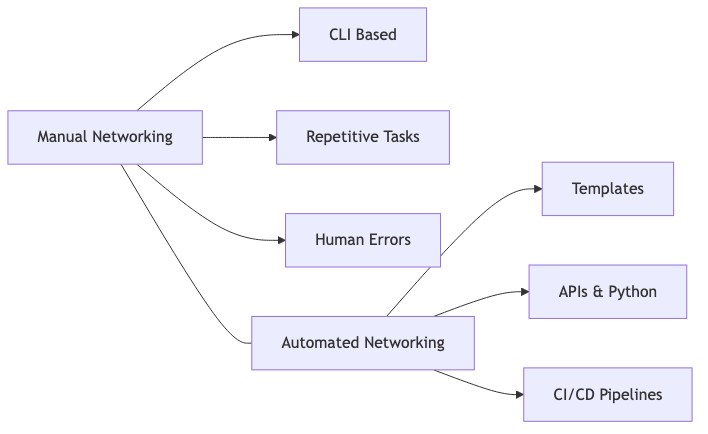
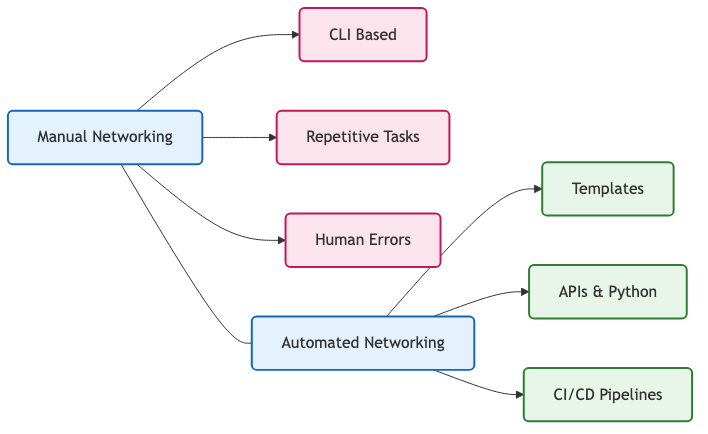
Regenerate all images with consistent styling

diff --git a/README.md b/README.md
@@ -12,16 +12,45 @@ This repository hosts content, diagrams, and ideas for my LinkedIn posts, focusi
 
 Here are the core diagram concepts included in this repo:
 
-1.  **[The Automation Starter Roadmap](diagrams/01-starter-roadmap.md)**: The exact order a beginner should follow.
-2.  **[The “Automation Pyramid”](diagrams/02-automation-pyramid.md)**: Hierarchy from foundations to expert.
-3.  **[Automation Skill Tree](diagrams/03-skill-tree.md)**: A visual mindmap of skills.
-4.  **[The Automation Maturity Model](diagrams/04-maturity-model.md)**: Stages of automation adoption.
-5.  **[“Two Worlds” Diagram](diagrams/05-manual-vs-automated.md)**: Manual vs. Automated networking.
-6.  **[Task → Automation Mapping](diagrams/06-task-mapping.md)**: Matching tools to tasks.
-7.  **[Beginner Blueprint: 30-Day Plan](diagrams/07-30-day-plan.md)**: A month-long learning plan.
-8.  **[Where Automation Fits](diagrams/08-automation-lifecycle.md)**: Automation in the network lifecycle.
-9.  **[Automation Path for OT Engineers](diagrams/09-ot-engineer-path.md)**: Bridging OT and IT automation.
-10. **[Automation Stack Diagram](diagrams/10-automation-stack.md)**: The architectural layers.
+1.  **The Automation Starter Roadmap**
+    ![The Automation Starter Roadmap](diagrams/01-starter-roadmap.png)
+    [Source](diagrams/01-starter-roadmap.md)
+
+2.  **The “Automation Pyramid”**
+    ![The “Automation Pyramid”](diagrams/02-automation-pyramid.png)
+    [Source](diagrams/02-automation-pyramid.md)
+
+3.  **Automation Skill Tree**
+    ![Automation Skill Tree](diagrams/03-skill-tree.png)
+    [Source](diagrams/03-skill-tree.md)
+
+4.  **The Automation Maturity Model**
+    ![The Automation Maturity Model](diagrams/04-maturity-model.png)
+    [Source](diagrams/04-maturity-model.md)
+
+5.  **“Two Worlds” Diagram**
+    ![“Two Worlds” Diagram](diagrams/05-manual-vs-automated.png)
+    [Source](diagrams/05-manual-vs-automated.md)
+
+6.  **Task → Automation Mapping**
+    ![Task → Automation Mapping](diagrams/06-task-mapping.png)
+    [Source](diagrams/06-task-mapping.md)
+
+7.  **Beginner Blueprint: 30-Day Plan**
+    ![Beginner Blueprint: 30-Day Plan](diagrams/07-30-day-plan.png)
+    [Source](diagrams/07-30-day-plan.md)
+
+8.  **Where Automation Fits**
+    ![Where Automation Fits](diagrams/08-automation-lifecycle.png)
+    [Source](diagrams/08-automation-lifecycle.md)
+
+9.  **Automation Path for OT Engineers**
+    ![Automation Path for OT Engineers](diagrams/09-ot-engineer-path.png)
+    [Source](diagrams/09-ot-engineer-path.md)
+
+10. **Automation Stack Diagram**
+    ![Automation Stack Diagram](diagrams/10-automation-stack.png)
+    [Source](diagrams/10-automation-stack.md)
 
 ---
 

diff --git a/diagrams/02-automation-pyramid.md b/diagrams/02-automation-pyramid.md
@@ -5,11 +5,21 @@ Shows how engineers progress from foundations → expert.
 ### **Mermaid:**
 
 ```mermaid
-graph TD
-   A[Network Automation at Scale] 
-   A --> B[Naac / GitOps / Pipelines]
-   B --> C[Python API Automation]
-   C --> D[Ansible + Jinja2]
-   D --> E[Documentation of Manual Tasks]
-   E --> F[Strong Networking Fundamentals]
+flowchart LR
+   F[Strong Networking Fundamentals] --> E[Documentation of Manual Tasks]
+   E --> D[Ansible + Jinja2]
+   D --> C[Python API Automation]
+   C --> B[Naac / GitOps / Pipelines]
+   B --> A[Network Automation at Scale]
+
+   classDef default fill:#fff,stroke:#333,stroke-width:1px,rx:5,ry:5;
+   classDef level1 fill:#e3f2fd,stroke:#1565c0,stroke-width:2px;
+   classDef level2 fill:#e8f5e9,stroke:#2e7d32,stroke-width:2px;
+   classDef level3 fill:#fff3e0,stroke:#ef6c00,stroke-width:2px;
+   classDef top fill:#fce4ec,stroke:#c2185b,stroke-width:2px;
+
+   class F,E level1;
+   class D,C level2;
+   class B level3;
+   class A top;
 ```

diff --git a/diagrams/01-starter-roadmap.md b/diagrams/01-starter-roadmap.md
@@ -9,7 +9,7 @@ CLI → Templates → Ansible → Python → Pipelines → Naac
 ### **Mermaid:**
 
 ```mermaid
-flowchart TD
+flowchart LR
     A[Start: Manual Networking] --> B[Identify Repetitive Tasks]
     B --> C[Document Steps Clearly]
     C --> D[Jinja2 Templates]
@@ -19,4 +19,13 @@ flowchart TD
     G --> H[CI/CD for Network Changes]
     H --> I["Network as Code (Naac)"]
     I --> J[Automation at Scale]
+
+    classDef default fill:#fff,stroke:#333,stroke-width:1px,rx:5,ry:5;
+    classDef start fill:#e3f2fd,stroke:#1565c0,stroke-width:2px;
+    classDef mid fill:#e8f5e9,stroke:#2e7d32,stroke-width:2px;
+    classDef endNode fill:#fff3e0,stroke:#ef6c00,stroke-width:2px;
+
+    class A start;
+    class B,C,D,E,F,G,H,I mid;
+    class J endNode;
 ```

diff --git a/diagrams/10-automation-stack.md b/diagrams/10-automation-stack.md
@@ -5,11 +5,19 @@ Perfect for explaining the architecture.
 ### **Mermaid:**
 
 ```mermaid
-graph TD
-    A[User Input/Intent]
-    A --> B["Source of Truth (NetBox, Git)"]
+flowchart LR
+    A[User Input/Intent] --> B["Source of Truth (NetBox, Git)"]
     B --> C[Templates/Jinja2]
     C --> D["Automation Engine (Ansible, Nornir)"]
     D --> E[Python/API Logic]
     E --> F[Network Devices]
+
+    classDef default fill:#fff,stroke:#333,stroke-width:1px,rx:5,ry:5;
+    classDef input fill:#e3f2fd,stroke:#1565c0,stroke-width:2px;
+    classDef logic fill:#e8f5e9,stroke:#2e7d32,stroke-width:2px;
+    classDef device fill:#fff3e0,stroke:#ef6c00,stroke-width:2px;
+
+    class A input;
+    class B,C,D,E logic;
+    class F device;
 ```

diff --git a/diagrams/06-task-mapping.md b/diagrams/06-task-mapping.md
@@ -5,7 +5,7 @@ Shows what tool fits what task.
 ### **Mermaid:**
 
 ```mermaid
-flowchart TD
+flowchart LR
    A[Common Networking Tasks] --> B[Generate Configs]
    A --> C[Push Changes]
    A --> D[Pull Device State]
@@ -15,4 +15,13 @@ flowchart TD
    C --> C2[Ansible Playbooks]
    D --> D2[Python + APIs]
    E --> E2[Batfish/pyATS]
+
+    classDef default fill:#fff,stroke:#333,stroke-width:1px,rx:5,ry:5;
+    classDef root fill:#e3f2fd,stroke:#1565c0,stroke-width:2px;
+    classDef task fill:#e8f5e9,stroke:#2e7d32,stroke-width:2px;
+    classDef tool fill:#fff3e0,stroke:#ef6c00,stroke-width:2px;
+
+   class A root;
+   class B,C,D,E task;
+   class B2,C2,D2,E2 tool;
 ```

diff --git a/diagrams/08-automation-lifecycle.md b/diagrams/08-automation-lifecycle.md
@@ -5,7 +5,7 @@ Shows use cases clearly.
 ### **Mermaid:**
 
 ```mermaid
-flowchart TD
+flowchart LR
     N[Networking Lifecycle]
     N --> D[Design]
     N --> B[Build]
@@ -16,4 +16,13 @@ flowchart TD
     B --> B1[Ansible/Terraform]
     O --> O1[API Monitoring]
     T --> T1[AI-based Diagnostics]
+
+    classDef default fill:#fff,stroke:#333,stroke-width:1px,rx:5,ry:5;
+    classDef root fill:#e3f2fd,stroke:#1565c0,stroke-width:2px;
+    classDef phase fill:#e8f5e9,stroke:#2e7d32,stroke-width:2px;
+    classDef tool fill:#fff3e0,stroke:#ef6c00,stroke-width:2px;
+
+    class N root;
+    class D,B,O,T phase;
+    class D1,B1,O1,T1 tool;
 ```

diff --git a/diagrams/09-ot-engineer-path.md b/diagrams/09-ot-engineer-path.md
@@ -11,4 +11,13 @@ flowchart LR
     C --> D[Security Automation Policies]
     D --> E[OT/IT Convergence Automation]
     E --> F[Industrial Zero Trust Automation]
+
+    classDef default fill:#fff,stroke:#333,stroke-width:1px,rx:5,ry:5;
+    classDef start fill:#e3f2fd,stroke:#1565c0,stroke-width:2px;
+    classDef step fill:#e8f5e9,stroke:#2e7d32,stroke-width:2px;
+    classDef final fill:#fff3e0,stroke:#ef6c00,stroke-width:2px;
+
+    class A start;
+    class B,C,D,E step;
+    class F final;
 ```

diff --git a/diagrams/04-maturity-model.md b/diagrams/04-maturity-model.md
@@ -11,4 +11,13 @@ graph LR
     C --> D[Stage 3: Source of Truth Driven]
     D --> E[Stage 4: CI/CD for Network]
     E --> F[Stage 5: Network as Code]
+
+    classDef default fill:#fff,stroke:#333,stroke-width:1px,rx:5,ry:5;
+    classDef level1 fill:#e3f2fd,stroke:#1565c0,stroke-width:2px;
+    classDef level2 fill:#e8f5e9,stroke:#2e7d32,stroke-width:2px;
+    classDef level3 fill:#fff3e0,stroke:#ef6c00,stroke-width:2px;
+
+    class A,B level1;
+    class C,D level2;
+    class E,F level3;
 ```

diff --git a/diagrams/05-manual-vs-automated.md b/diagrams/05-manual-vs-automated.md
@@ -17,4 +17,13 @@ flowchart LR
     B --> Y3[CI/CD Pipelines]
 
     A --- B
+
+    classDef default fill:#fff,stroke:#333,stroke-width:1px,rx:5,ry:5;
+    classDef manual fill:#fce4ec,stroke:#c2185b,stroke-width:2px;
+    classDef auto fill:#e8f5e9,stroke:#2e7d32,stroke-width:2px;
+    classDef root fill:#e3f2fd,stroke:#1565c0,stroke-width:2px;
+
+    class X1,X2,X3 manual;
+    class Y1,Y2,Y3 auto;
+    class A,B root;
 ```
